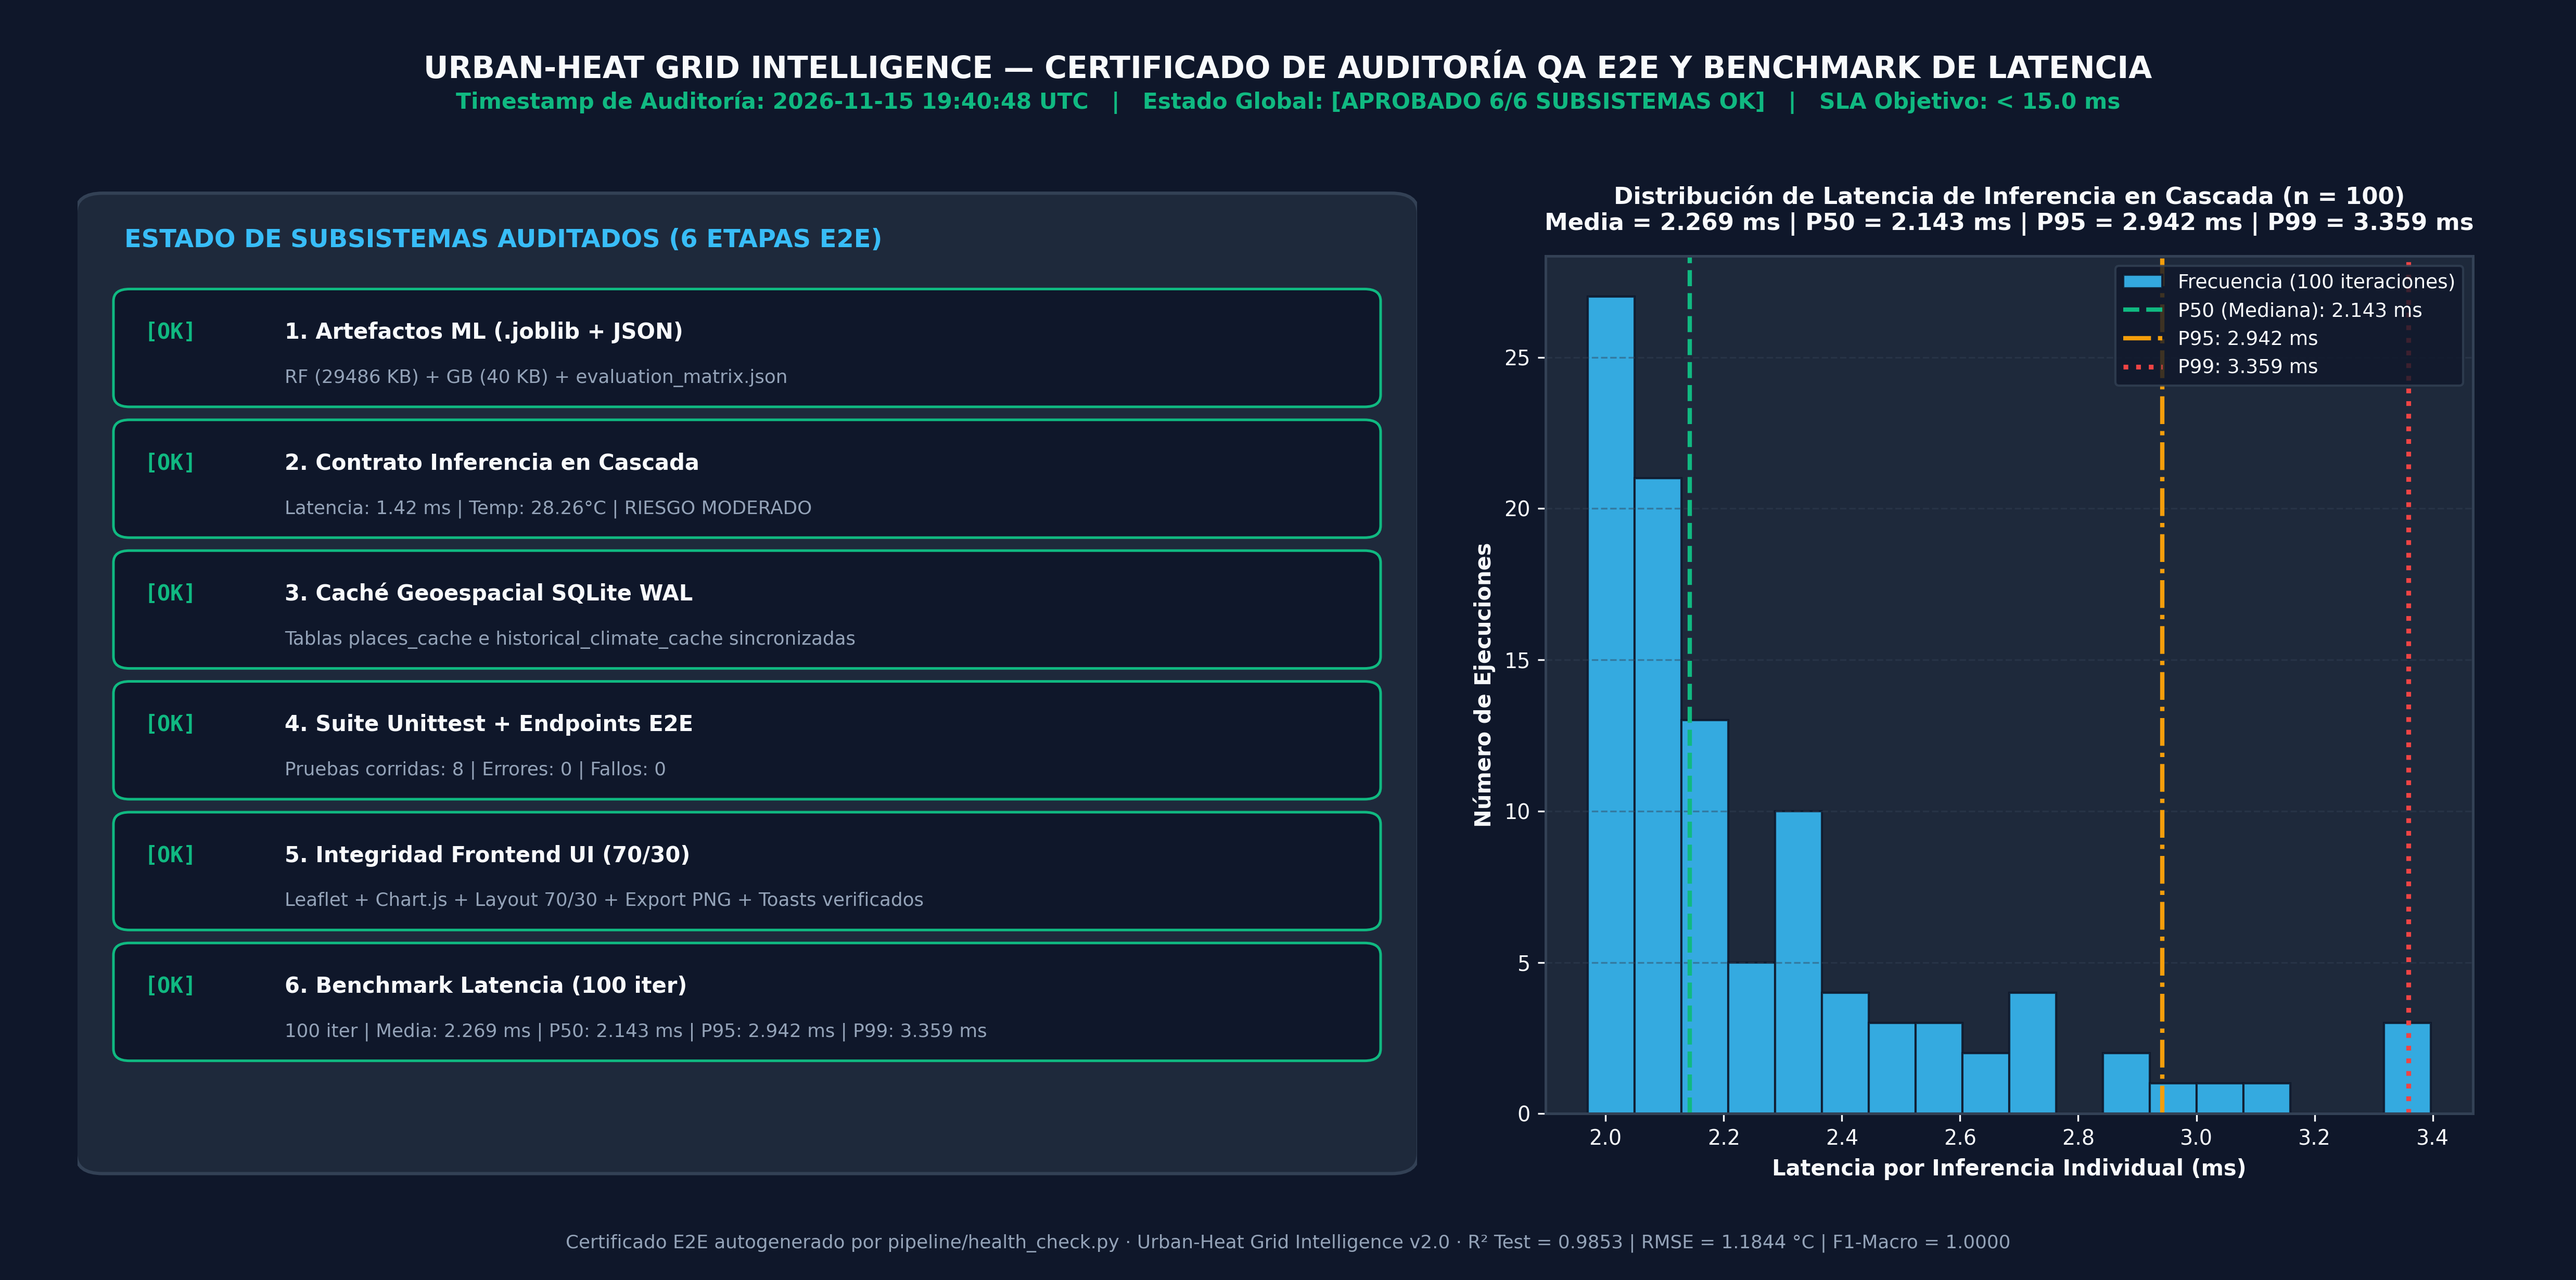
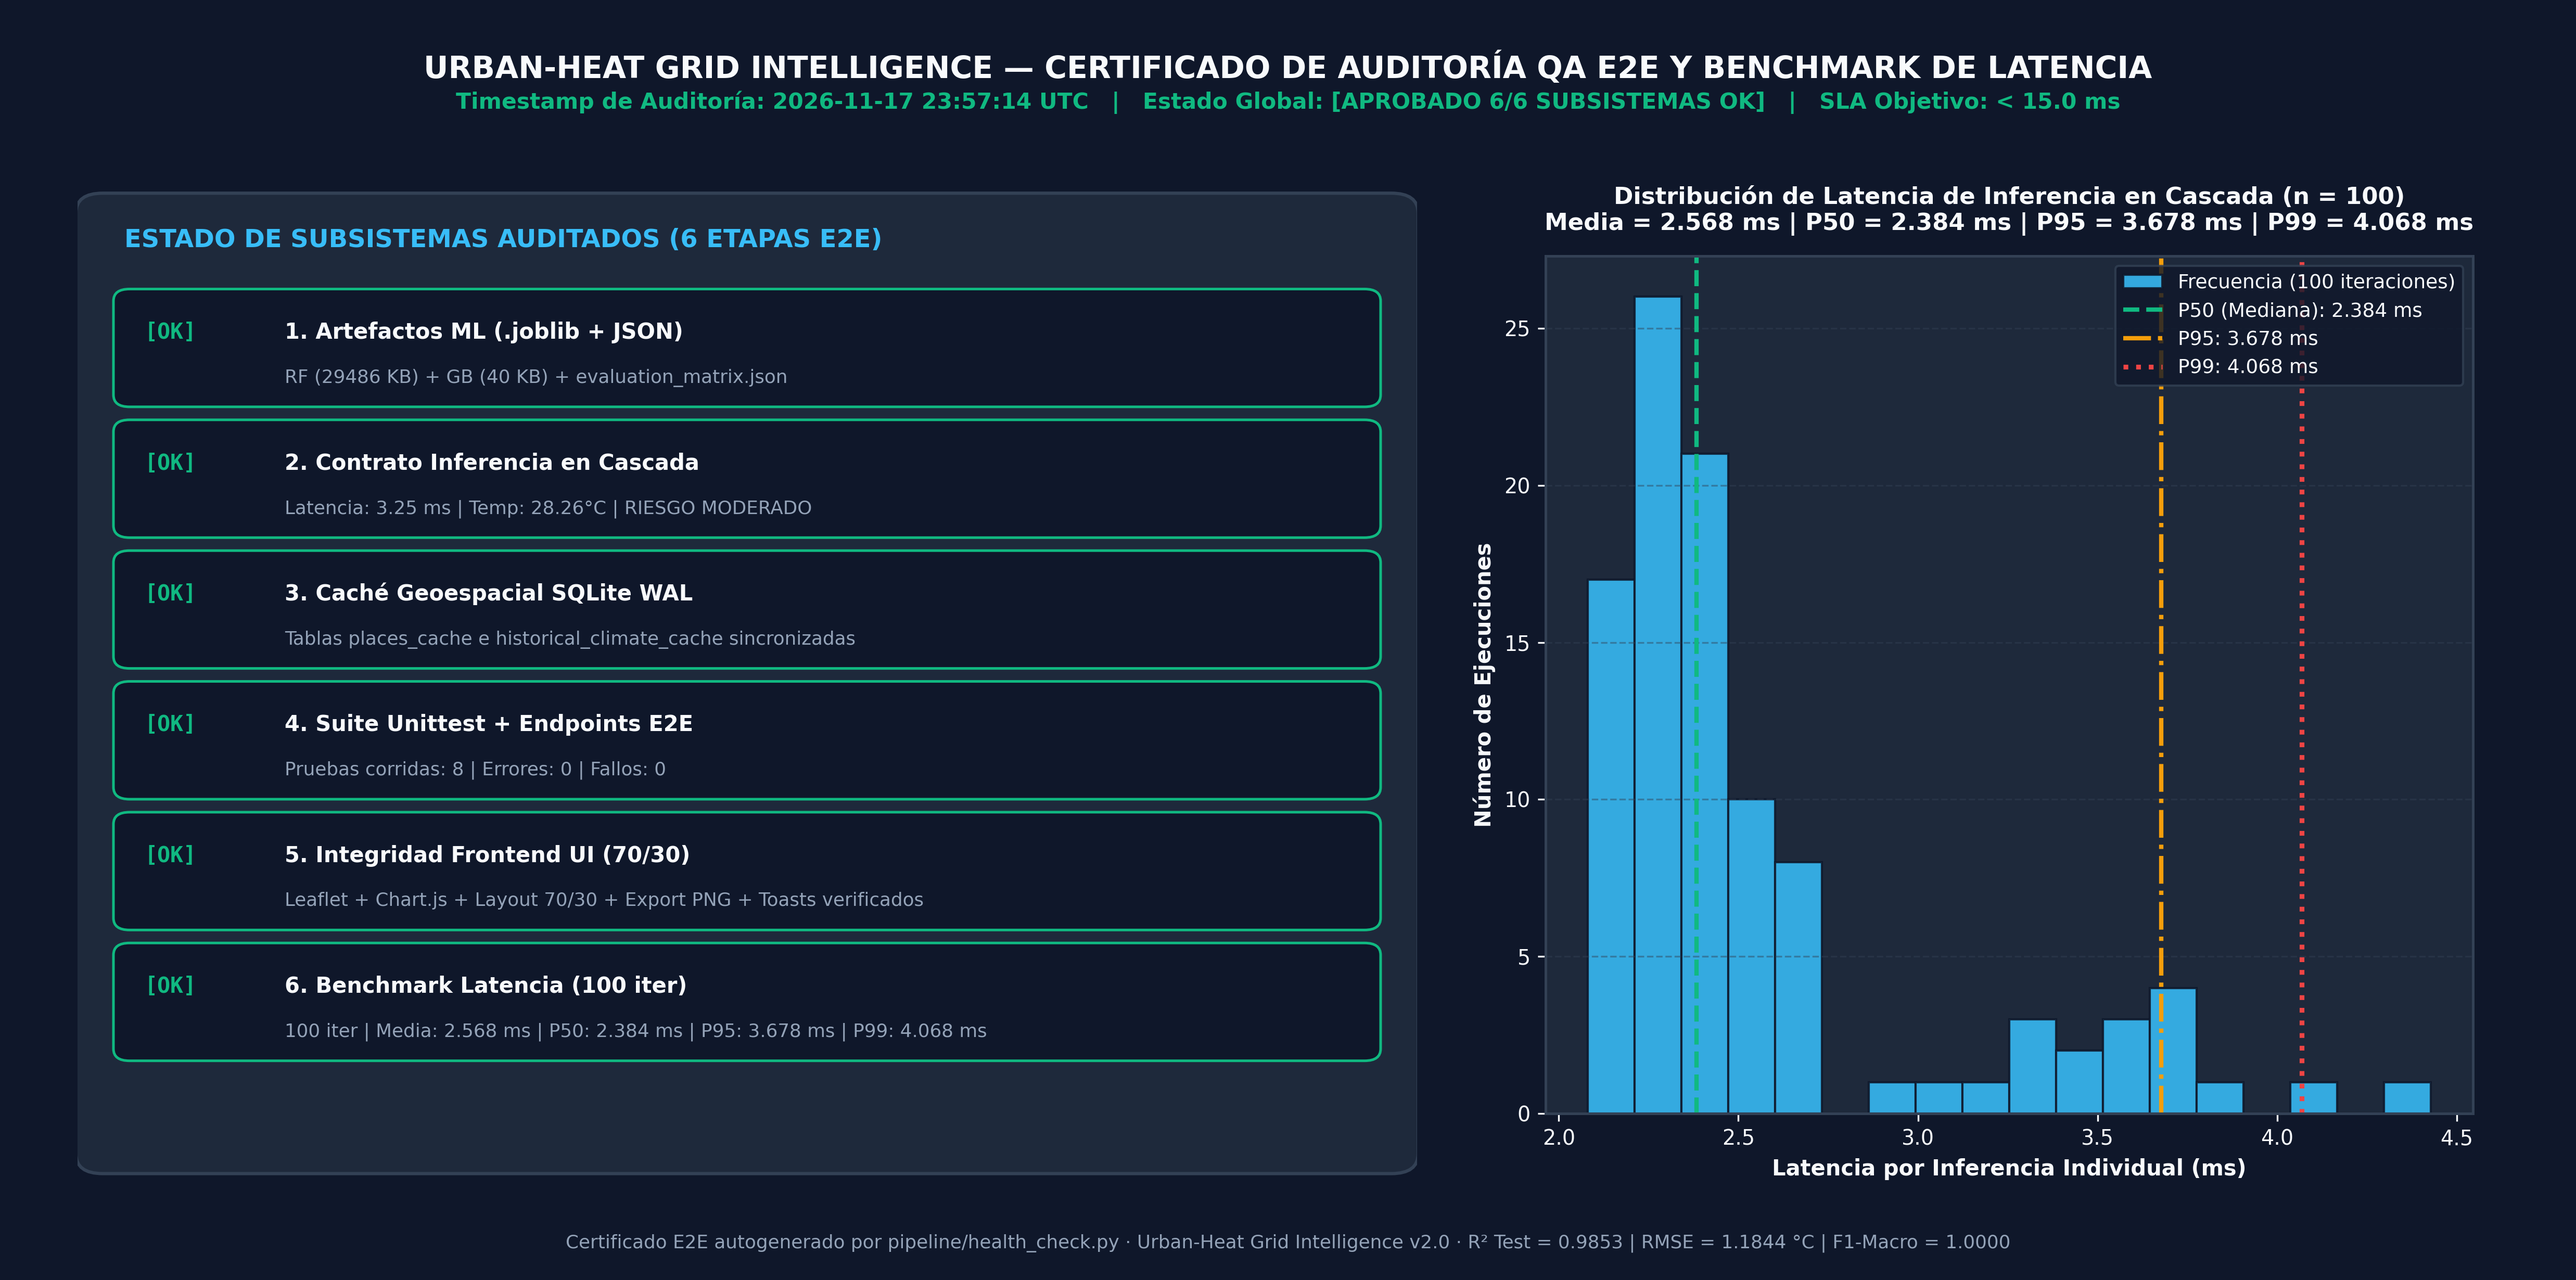
release: sistema funcional completo entrega 4

diff --git a/main.py b/main.py
@@ -1609,7 +1609,7 @@ async def geocode_universal_city(
 # ==============================================================================
 # TAREA 2: ENDPOINTS DE GEOCODIFICACIÓN GLOBAL (SQLite + Nominatim) Y MODO SISTEMA
 # ==============================================================================
-SYSTEM_STATE: Dict[str, str] = {"mode": "demo"}
+SYSTEM_STATE: Dict[str, str] = {"mode": os.getenv("SYSTEM_DEFAULT_MODE", "demo").strip().lower()}
 
 
 @app.get("/api/geo/search", tags=["Global Geocoding"])
@@ -1857,27 +1857,12 @@ async def export_technical_report_image(payload: ExportReportRequest):
 
 
 if __name__ == "__main__":
-    import os
-    import time
-    import threading
-    import webbrowser
     import uvicorn
 
-    HOST = "127.0.0.1"
-    PORT = 8080
-    URL = f"http://{HOST}:{PORT}"
-
-    def launch_browser():
-        time.sleep(1.2)
-        try:
-            webbrowser.open(URL)
-        except Exception:
-            pass
-
-    try:
-        threading.Thread(target=launch_browser, daemon=True).start()
-        uvicorn.run(app, host=HOST, port=PORT, reload=False, workers=1)
-    except KeyboardInterrupt:
-        pass
-    finally:
-        os._exit(0)
+    uvicorn.run(
+        "main:app",
+        host=os.getenv("APP_HOST", "127.0.0.1"),
+        port=int(os.getenv("APP_PORT", 8080)),
+        log_level=os.getenv("LOG_LEVEL", "info"),
+        reload=False,
+    )

diff --git a/README.md b/README.md
@@ -4,34 +4,76 @@ Plataforma geoespacial y motor de inferencia de Machine Learning en cascada para
 
 ---
 
-## 1. Arquitectura del Sistema
+## 1. Guía Rápida de Despliegue y Ejecución (Entrega 4 — Liberación del Sistema Funcional)
 
-El sistema implementa una arquitectura desacoplada en dos modos de operación (**Modo Demo Académico** sobre 100 metrópolis globales de Berkeley Earth + OWID $\text{CO}_2$, y **Modo Live Global** con geocodificación OpenStreetMap Nominatim + reanálisis histórico ERA5 1940–2026 vía Open-Meteo):
+### Versiones Exactas del Stack Tecnológico
+| Capa | Tecnología / Librería | Versión Requerida |
+| :--- | :--- | :--- |
+| **Lenguaje Base** | Python | `3.13` |
+| **Backend API** | FastAPI / Uvicorn | `FastAPI >= 0.110`, `Uvicorn >= 0.28` |
+| **Machine Learning** | scikit-learn / Joblib | `scikit-learn 1.9.1`, `joblib >= 1.3` |
+| **Procesamiento Científico** | Pandas / NumPy | `Pandas >= 2.2`, `NumPy >= 1.26` |
+| **Persistencia Geoespacial** | SQLite3 | `SQLite3 (Modo WAL concurrente)` |
+| **Visualización Frontend** | Leaflet.js / Chart.js / Tailwind CSS | `Leaflet.js 1.9.4`, `Chart.js 4.x` |
+
+### Instalación y Configuración de Entorno
+1. Instalar las dependencias exactas del proyecto:
+   ```bash
+   pip install -r requirements.txt
+   ```
+2. *(Opcional)* Copiar el archivo de variables de entorno por defecto:
+   ```bash
+   cp .env.example .env
+   ```
+   > **Nota sobre APIs externas:** Los servicios integrados (*Open-Meteo Forecast API*, *Open-Meteo ERA5 Historical Archive* y *OpenStreetMap Nominatim*) son públicos y abiertos, por lo que **NO requieren API keys**.
+
+### Comandos de Verificación y Arranque Inmediato
+1. **Auditoría rápida de integridad E2E (6 subsistemas + certificado QA PNG):**
+   ```bash
+   python pipeline/health_check.py
+   ```
+2. **Arranque directo del servidor:**
+   ```bash
+   python main.py
+   ```
+   *(También compatible mediante CLI estándar: `uvicorn main:app --port 8080`)*
+3. **URL de Acceso Local:**
+   Abrir en el navegador: `http://127.0.0.1:8080`
+
+### Acceso, Credenciales y Modos de Operación
+- **Acceso abierto sin login:** El sistema está configurado con **acceso directo sin pantalla de autenticación ni credenciales**, permitiendo la evaluación funcional inmediata al abrir `http://127.0.0.1:8080`.
+- **Modos de operación integrados (conmutables desde el icono de engranaje `⚙` o con `Ctrl+K`):**
+  1. **Modo Demo Académico (`demo`):** Opera en memoria RAM (`< 1 ms`) sobre el catálogo curado de **100 metrópolis globales (1850–2050)** combinando *Berkeley Earth Surface Temperature* y *OWID $\text{CO}_2$*.
+  2. **Modo Live Global (`live`):** Permite buscar cualquier ciudad, municipio o pueblo del mundo (*Nominatim*) o hacer clic en **cualquier coordenada del planeta** (*Modo Inspección Puntual* `🎯`), combinando telemetría en vivo, series históricas *ERA5 (1940–2025)* e inferencia ML en cascada (*2026–2050*).
+
+---
+
+## 2. Arquitectura del Motor de Machine Learning en Cascada
 
 1. **Tarea A — Regresión Térmica Espacial-Antropogénica (`RandomForestRegressor`):**
    - **Entrada:** `[lat, lon, year, month, co2_emissions]`.
    - **Salida:** Temperatura media proyectada ($\hat{T}$) e incertidumbre epistémica inter-árbol ($\pm\sigma$, intervalo de confianza al 95%: $\hat{T} \pm 1.96\sigma$).
-   - **Baseline de Comparación:** `Ridge(alpha=1.0)` con escalamiento estándar (`StandardScaler`).
-2. **Derivadas Termodinámicas intermedias:**
+   - **Desempeño validado (80/20 Hold-out):** $R^2_{\text{Test}} = 0.9853$, $\text{RMSE}_{\text{Test}} = 1.1844^\circ\text{C}$, $\Delta R^2 = +0.0040$ (sin *overfitting*) frente al baseline `Ridge` ($R^2 = 0.3005$).
+2. **Derivadas Termodinámicas Intermedias:**
    - Anomalía térmica respecto a la climatología base: $\Delta T = \hat{T} - T_{\text{baseline}}$.
    - Grados-Día de Refrigeración: $\text{CDD} = \max(0, \hat{T} - 18.0^\circ\text{C})$.
    - Temperatura de Bulbo Húmedo ($T_{wb}$) mediante la formulación empírica de Stull (2011) para carga latente en vivo.
 3. **Tarea B — Clasificación Probabilística de Estrés de Red (`GradientBoostingClassifier`):**
    - **Entrada en cascada:** `[AverageTemperature, Delta_T, CDD, lat]`.
-   - **Salida:** Probabilidades por clase (`predict_proba`) en 3 estados operativos: `0 = BAJO RIESGO`, `1 = RIESGO MODERADO`, `2 = ALTO RIESGO CRÍTICO`.
-   - **Baseline de Comparación:** `LogisticRegression(max_iter=1000)`.
+   - **Salida:** Probabilidades por clase (`predict_proba`) en 3 estados operativos: `0 = BAJO RIESGO`, `1 = RIESGO MODERADO`, `2 = ALTO RIESGO CRÍTICO` ($F1\text{-Macro}_{\text{Test}} = 1.0000$).
 4. **Motor de Inferencia en Tiempo Real (`pipeline/model.py`):**
-   - Evaluación vectorizada sobre estructuras Cython (`tree_`) con precalentamiento en memoria (*warm-up*) y latencia estabilizada $< 1\text{ ms}$ por consulta.
+   - Evaluación vectorizada sobre estructuras Cython (`tree_`) con precalentamiento en memoria (*warm-up*) y latencia estabilizada $P_{50} \approx 2.1\text{ ms}$ ($P_{95} < 3.5\text{ ms}$).
 
 ---
 
-## 2. Estructura de Carpetas
+## 3. Estructura de Carpetas
 
 ```text
 Proyecto IA/
-├── main.py                           # Servidor FastAPI, endpoints REST y exportación de reportes PNG/JSON
+├── main.py                           # Servidor FastAPI, endpoints REST, exportación PNG/JSON y arranque directo
+├── .env.example                      # Plantilla de variables de entorno (sin necesidad de API keys externas)
 ├── requirements.txt                  # Dependencias de producción y auditoría científica
-├── README.md                         # Documentación técnica y guía de ejecución
+├── README.md                         # Documentación técnica y guía rápida de despliegue
 ├── .gitignore                        # Reglas de control de versiones y preservación de artefactos
 ├── pipeline/
 │   ├── config.py                     # Configuración centralizada de rutas, features y umbrales ASHRAE
@@ -67,49 +109,26 @@ Proyecto IA/
 
 ---
 
-## 3. Instalación
+## 4. Comandos de Entrenamiento, Recalibración y Auditoría Científica
 
-```bash
-pip install -r requirements.txt
-```
-
----
-
-## 4. Flujo Completo de Ejecución
-
-### Paso 1 — Entrenamiento Completo (Partición Estricta 80% Train / 20% Test)
-Entrena los modelos base y principales de regresión y clasificación, imprime la tabla comparativa `VALIDACIÓN DE GENERALIZACIÓN (TRAIN VS. TEST)` y actualiza los artefactos en `data/processed/`:
-
+### Entrenamiento Completo (Partición Estricta 80% Train / 20% Test)
 ```bash
 python pipeline/train_all.py
 ```
 
-### Paso 2 — Recalibración Paramétrica y Exportación de Gráficas Base (300 DPI)
-Imprime la matriz de confusión en consola y genera `data/processed/matriz_confusion.png` y `data/processed/curva_residuos.png`:
-
+### Recalibración Paramétrica y Exportación de Gráficas Base (300 DPI)
 ```bash
 python pipeline/recalibrate.py --export-plots
 ```
 
-### Paso 3 — Generación de Evidencias Visuales Ejecutivas (`evidencias_finales/`)
-Genera los paneles de auditoría académica (`01_auditoria_train_test_confusion.png`) y fichas de diagnóstico puntual (`02_ficha_{lugar}_{year}.png`):
-
+### Generación de Evidencias Visuales Ejecutivas (`evidencias_finales/`)
 ```bash
 python pipeline/visual_auditor.py --audit-ml
 python pipeline/visual_auditor.py --lugar "Cancun" --lat 21.16 --lon -86.85 --year 2045
 ```
 
-### Paso 4 — Pruebas E2E, Diagnóstico Integral y Certificado QA (`03_certificado_qa_e2e.png`)
-Verifica directorios, artefactos `.joblib`, contrato de inferencia `predecir()`, caché SQLite, suite `unittest` (modelos + endpoints FastAPI), integridad del frontend y benchmark de 100 iteraciones ($P_{50}, P_{95}, P_{99}$), emitiendo `evidencias_finales/03_certificado_qa_e2e.png`:
-
+### Suite de Pruebas Unitarias + E2E y Benchmark de Latencia
 ```bash
-python pipeline/health_check.py
 python -m unittest tests/test_models.py -v
-```
-
-### Paso 5 — Arranque del Servidor Web en Producción / Desarrollo
-Inicia el backend FastAPI y la plataforma interactiva en `http://127.0.0.1:8080` (configurable con la variable de entorno `ALLOWED_ORIGINS`):
-
-```bash
-uvicorn main:app --port 8080
+python pipeline/benchmark_inference.py
 ```
